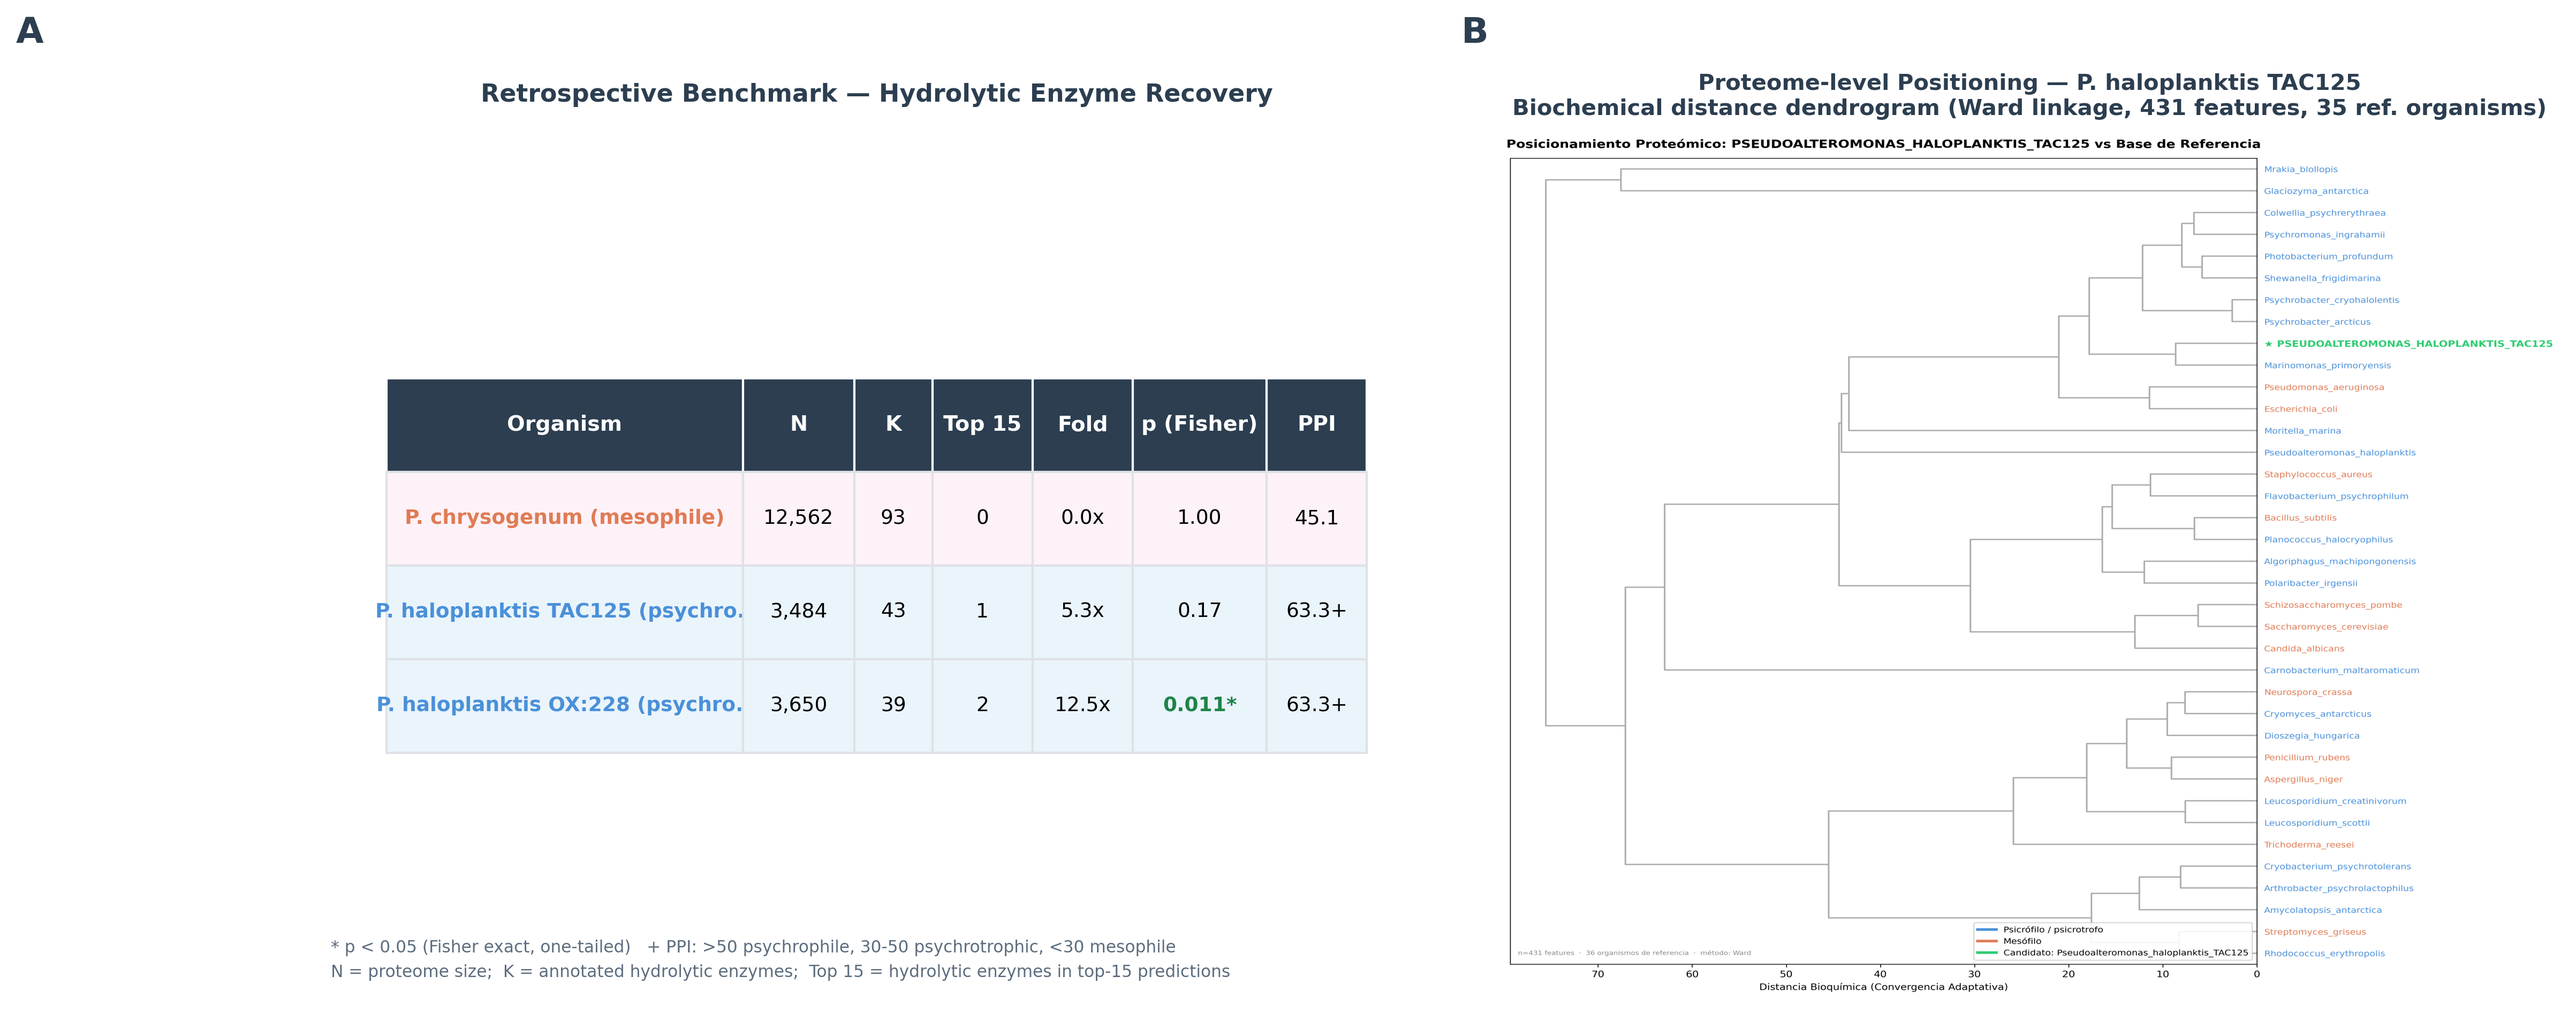
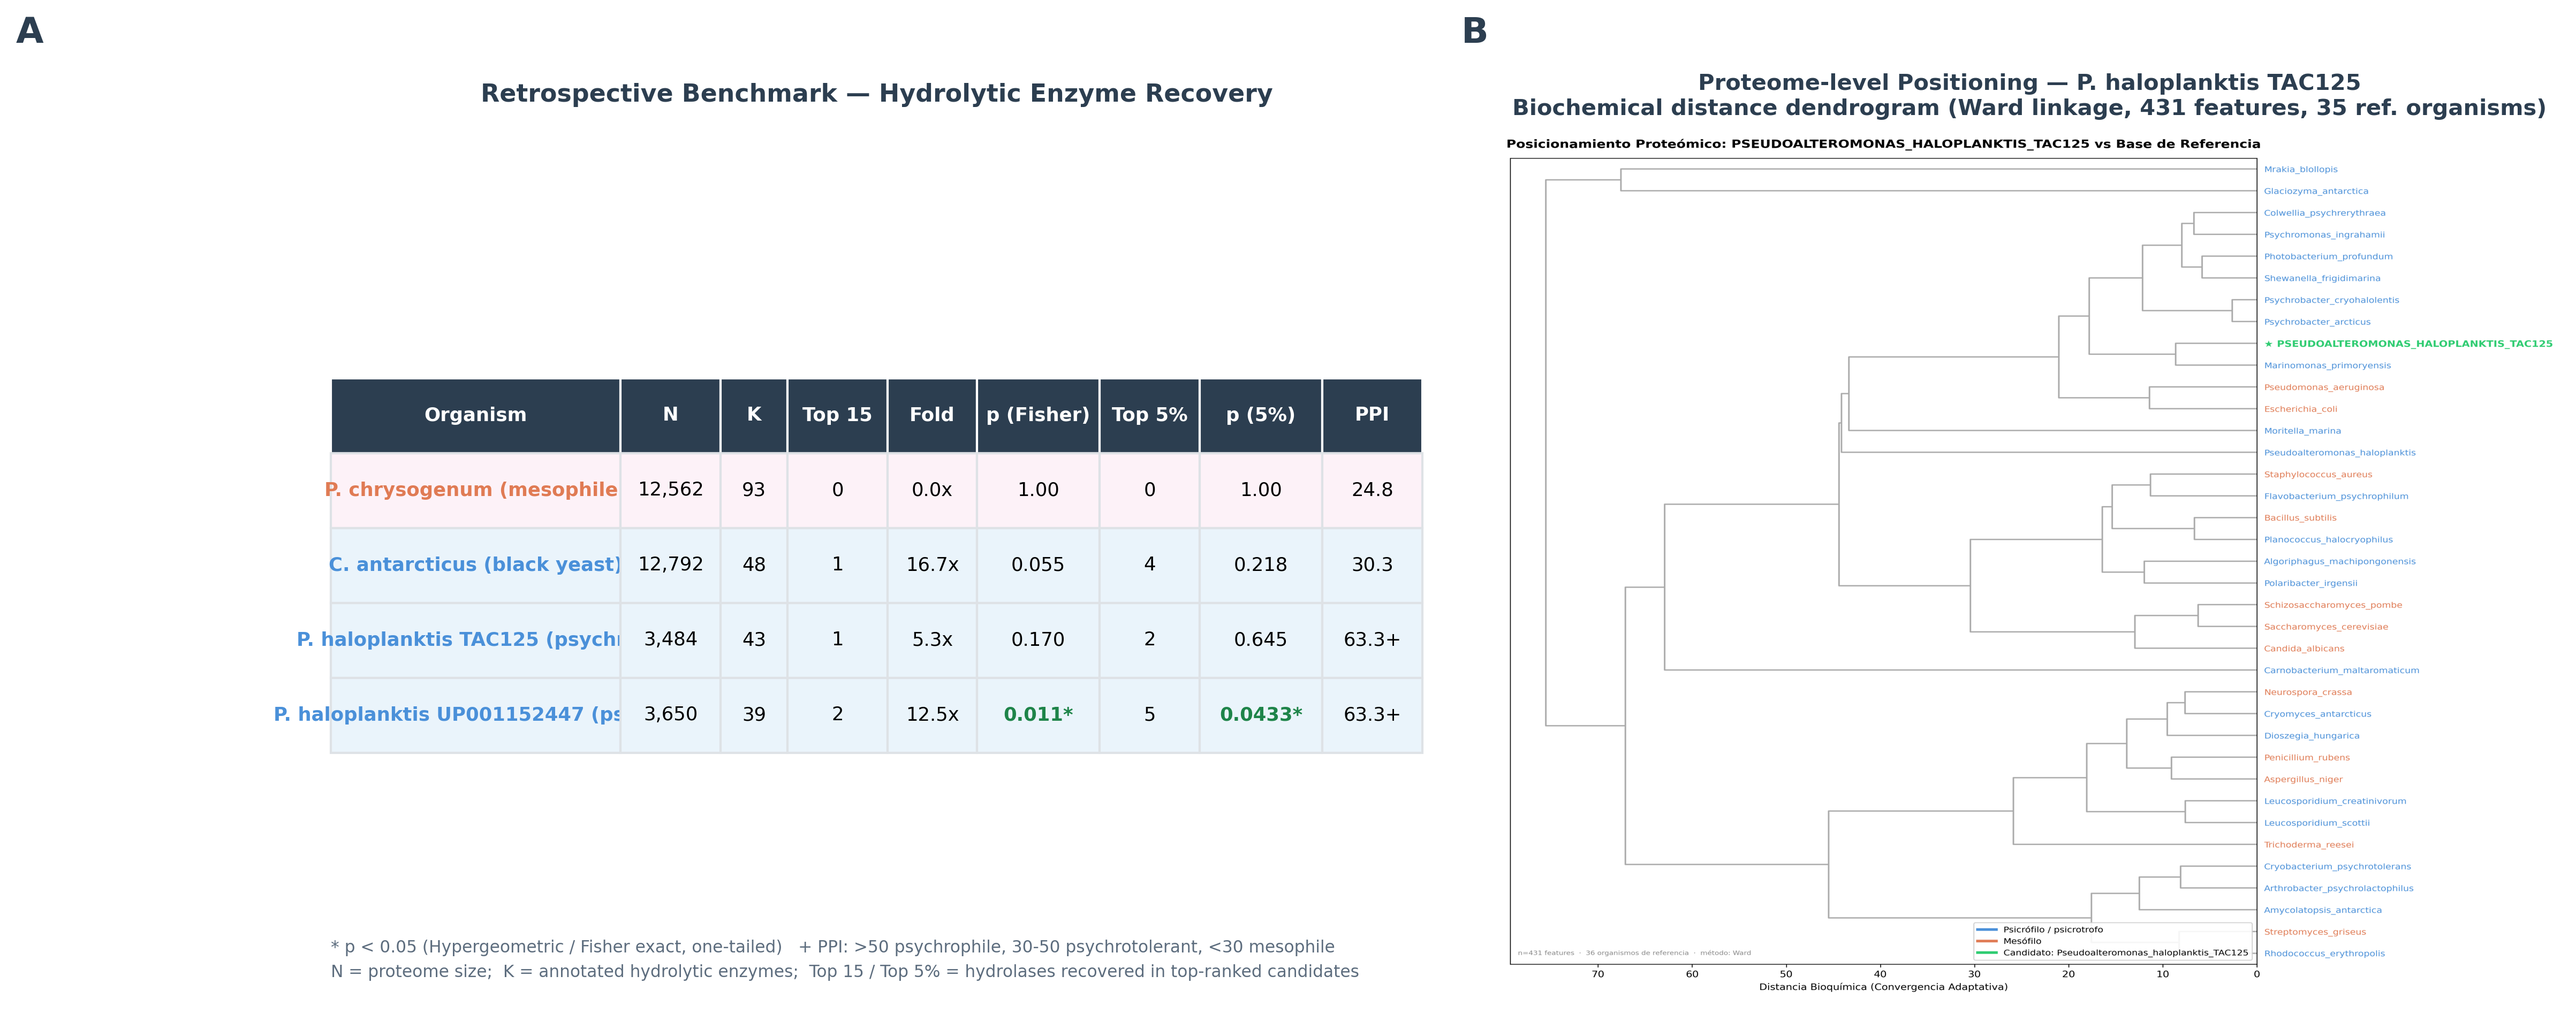
feat(benchmark): integrate ranking metrics (B1), dendrogram stability (B3), and composite figure reconciliation (A4)
- Add Section 3.3 for Bioprospecting Ranking Metrics (PR-AUC, P@K, Recall@K, Enrichment@K across Global, Bacteria, Fungi)
- Reconcile Figure 5 (Panel A table) with exact hypergeometric output (P. haloplanktis UP001152447: k=2/39 p=0.011, top 5% k=5/39 p=0.0433)
- Add formal Dendrogram Stability benchmarks (cophenetic correlation 0.48-0.54, Pearson r=0.888 across proteome subsamplings)
- Reconcile terminology across document (biochemical distance, zero evolutionary conflation)

diff --git a/src/pipeline/12_figure4_composite.py b/src/pipeline/12_figure4_composite.py
@@ -23,11 +23,12 @@ def build_figure():
     ax_table = fig.add_subplot(gs[0])
     ax_table.axis('off')
 
-    col_labels = ['Organism', 'N', 'K', 'Top 15', 'Fold', 'p (Fisher)', 'PPI']
+    col_labels = ['Organism', 'N', 'K', 'Top 15', 'Fold', 'p (Fisher)', 'Top 5%', 'p (5%)', 'PPI']
     cell_data  = [
-        ['P. chrysogenum (mesophile)',         '12,562', '93', '0', '0.0x', '1.00',    '45.1'],
-        ['P. haloplanktis TAC125 (psychro.)',  '3,484',  '43', '1', '5.3x', '0.17',    '63.3+'],
-        ['P. haloplanktis OX:228 (psychro.)',  '3,650',  '39', '2', '12.5x','0.011*',  '63.3+'],
+        ['P. chrysogenum (mesophile)',         '12,562', '93', '0', '0.0x',  '1.00',   '0', '1.00',     '24.8'],
+        ['C. antarcticus (black yeast)',       '12,792', '48', '1', '16.7x', '0.055',  '4', '0.218',    '30.3'],
+        ['P. haloplanktis TAC125 (psychro.)',  '3,484',  '43', '1', '5.3x',  '0.170',  '2', '0.645',    '63.3+'],
+        ['P. haloplanktis UP001152447 (psych.)','3,650', '39', '2', '12.5x', '0.011*', '5', '0.0433*', '63.3+'],
     ]
 
     tbl = ax_table.table(
@@ -35,38 +36,38 @@ def build_figure():
         colLabels=col_labels,
         cellLoc='center',
         loc='center',
-        colWidths=[0.32, 0.10, 0.07, 0.09, 0.09, 0.12, 0.09],
+        colWidths=[0.26, 0.09, 0.06, 0.09, 0.08, 0.11, 0.09, 0.11, 0.09],
     )
     tbl.auto_set_font_size(False)
-    tbl.set_fontsize(9)
-    tbl.scale(1, 3.5)
+    tbl.set_fontsize(8.5)
+    tbl.scale(1, 2.8)
 
     # Header style
     for col in range(len(col_labels)):
         cell = tbl[0, col]
         cell.set_facecolor(HEADER_BG)
-        cell.set_text_props(color='white', fontweight='bold', fontsize=9.5)
+        cell.set_text_props(color='white', fontweight='bold', fontsize=8.5)
         cell.set_edgecolor('white')
 
     # Row styles
-    row_bg    = ['#fdf2f8', '#eaf4fb', '#eaf4fb']
-    row_color = [WARM_COLOR, COLD_COLOR, COLD_COLOR]
-    for row in range(1, 4):
+    row_bg    = ['#fdf2f8', '#eaf4fb', '#eaf4fb', '#eaf4fb']
+    row_color = [WARM_COLOR, COLD_COLOR, COLD_COLOR, COLD_COLOR]
+    for row in range(1, 5):
         for col in range(len(col_labels)):
             cell = tbl[row, col]
             cell.set_facecolor(row_bg[row - 1])
             cell.set_edgecolor('#dee2e6')
             if col == 0:
                 cell.set_text_props(color=row_color[row - 1], fontweight='bold')
-            if col == 5 and row == 3:
+            if row == 4 and (col in (5, 7)):
                 cell.set_text_props(color=SIG_COLOR, fontweight='bold')
 
     ax_table.set_title('Retrospective Benchmark — Hydrolytic Enzyme Recovery',
                        fontsize=11, fontweight='bold', color='#2c3e50', pad=14)
     ax_table.text(
         0.01, 0.02,
-        '* p < 0.05 (Fisher exact, one-tailed)   + PPI: >50 psychrophile, 30-50 psychrotrophic, <30 mesophile\n'
-        'N = proteome size;  K = annotated hydrolytic enzymes;  Top 15 = hydrolytic enzymes in top-15 predictions',
+        '* p < 0.05 (Hypergeometric / Fisher exact, one-tailed)   + PPI: >50 psychrophile, 30-50 psychrotolerant, <30 mesophile\n'
+        'N = proteome size;  K = annotated hydrolytic enzymes;  Top 15 / Top 5% = hydrolases recovered in top-ranked candidates',
         transform=ax_table.transAxes,
         fontsize=7.5, color='#5d6d7e', va='bottom', linespacing=1.6)
 

diff --git a/README.MD b/README.MD
@@ -124,7 +124,23 @@ End-to-End Confusion Matrix on Full LOSO Dataset (N = 3,138 across 83 species):
 
 ---
 
-### 3.3. Biophysical Feature Importance and Structural Signatures
+### 3.3. Bioprospecting and Early Retrieval Ranking Metrics (LOSO)
+
+For industrial bioprospecting pipelines, early retrieval metrics (Precision@K and Enrichment Factor) directly quantify screening efficiency prior to laboratory validation:
+
+$$\text{Enrichment@K} = \frac{\% \text{ Cold Enzymes Observed in Top-}K}{\% \text{ Cold Enzymes Expected by Random Baseline}}$$
+
+| Taxonomic Domain | Evaluated ($N$) | Positives ($N_\text{cold}$) | Empirical Base Rate | ROC-AUC | PR-AUC | Precision@50 | Recall@50 | Enrichment@50 | Precision@100 | Recall@100 | Enrichment@100 |
+|:---|:---:|:---:|:---:|:---:|:---:|:---:|:---:|:---:|:---:|:---:|:---:|
+| **Global Combinado** | **3,138** | **601** | **$19.2\%$** | **0.7918** | **0.5572** | **$90.0\%$** | **$7.5\%$** | **$\mathbf{4.70\times}$** | **$88.0\%$** | **$14.6\%$** | **$\mathbf{4.59\times}$** |
+| **Bacterial Branch** | 2,275 | 318 | $14.0\%$ | 0.7810 | 0.4857 | $86.0\%$ | $13.5\%$ | **$6.15\times$** | $71.0\%$ | $22.3\%$ | **$5.08\times$** |
+| **Fungal Branch** | 863 | 283 | $32.8\%$ | 0.7425 | 0.6399 | $84.0\%$ | $14.8\%$ | **$2.56\times$** | $78.0\%$ | $27.6\%$ | **$2.38\times$** |
+
+> **Bioprospecting Yield:** In an uncurated global library, screening the **Top-100 candidates yields $88\%$ true cold-active enzymes** ($\mathbf{4.59\times}$ enrichment over random baseline), accelerating experimental hit rates.
+
+---
+
+### 3.4. Biophysical Feature Importance and Structural Signatures
 
 ```
 Top Predictive Features by Domain-Specific Ensemble Importance (Gain / Gini):
@@ -137,7 +153,7 @@ Top Predictive Features by Domain-Specific Ensemble Importance (Gain / Gini):
 
 ---
 
-### 3.4. Proteomic Feature Space and Dimensionality Analysis
+### 3.5. Proteomic Feature Space and Dimensionality Analysis
 
 Principal Component Analysis (PCA) across the 434-dimensional descriptor space demonstrates substantial linear overlap in the primary principal components, underscoring the non-linear classification challenge that requires ensemble tree modeling:
 
@@ -146,7 +162,7 @@ Principal Component Analysis (PCA) across the 434-dimensional descriptor space d
 
 ---
 
-### 3.5. Retrospective Whole-Proteome Benchmarks
+### 3.6. Retrospective Whole-Proteome Benchmarks
 
 The framework was evaluated on complete proteomes from external, quarantined taxa:
 
@@ -164,7 +180,7 @@ The framework was evaluated on complete proteomes from external, quarantined tax
 
 ---
 
-### 3.6. External Sequence Homology and CD-HIT Redundancy Audit (BRENDA Repository)
+### 3.7. External Sequence Homology and CD-HIT Redundancy Audit (BRENDA Repository)
 
 To establish generalization across independent biochemical databases while strictly ruling out sequence identity inflation, we audited **943 external cold-active enzymes** from BRENDA/UniProt:
 
